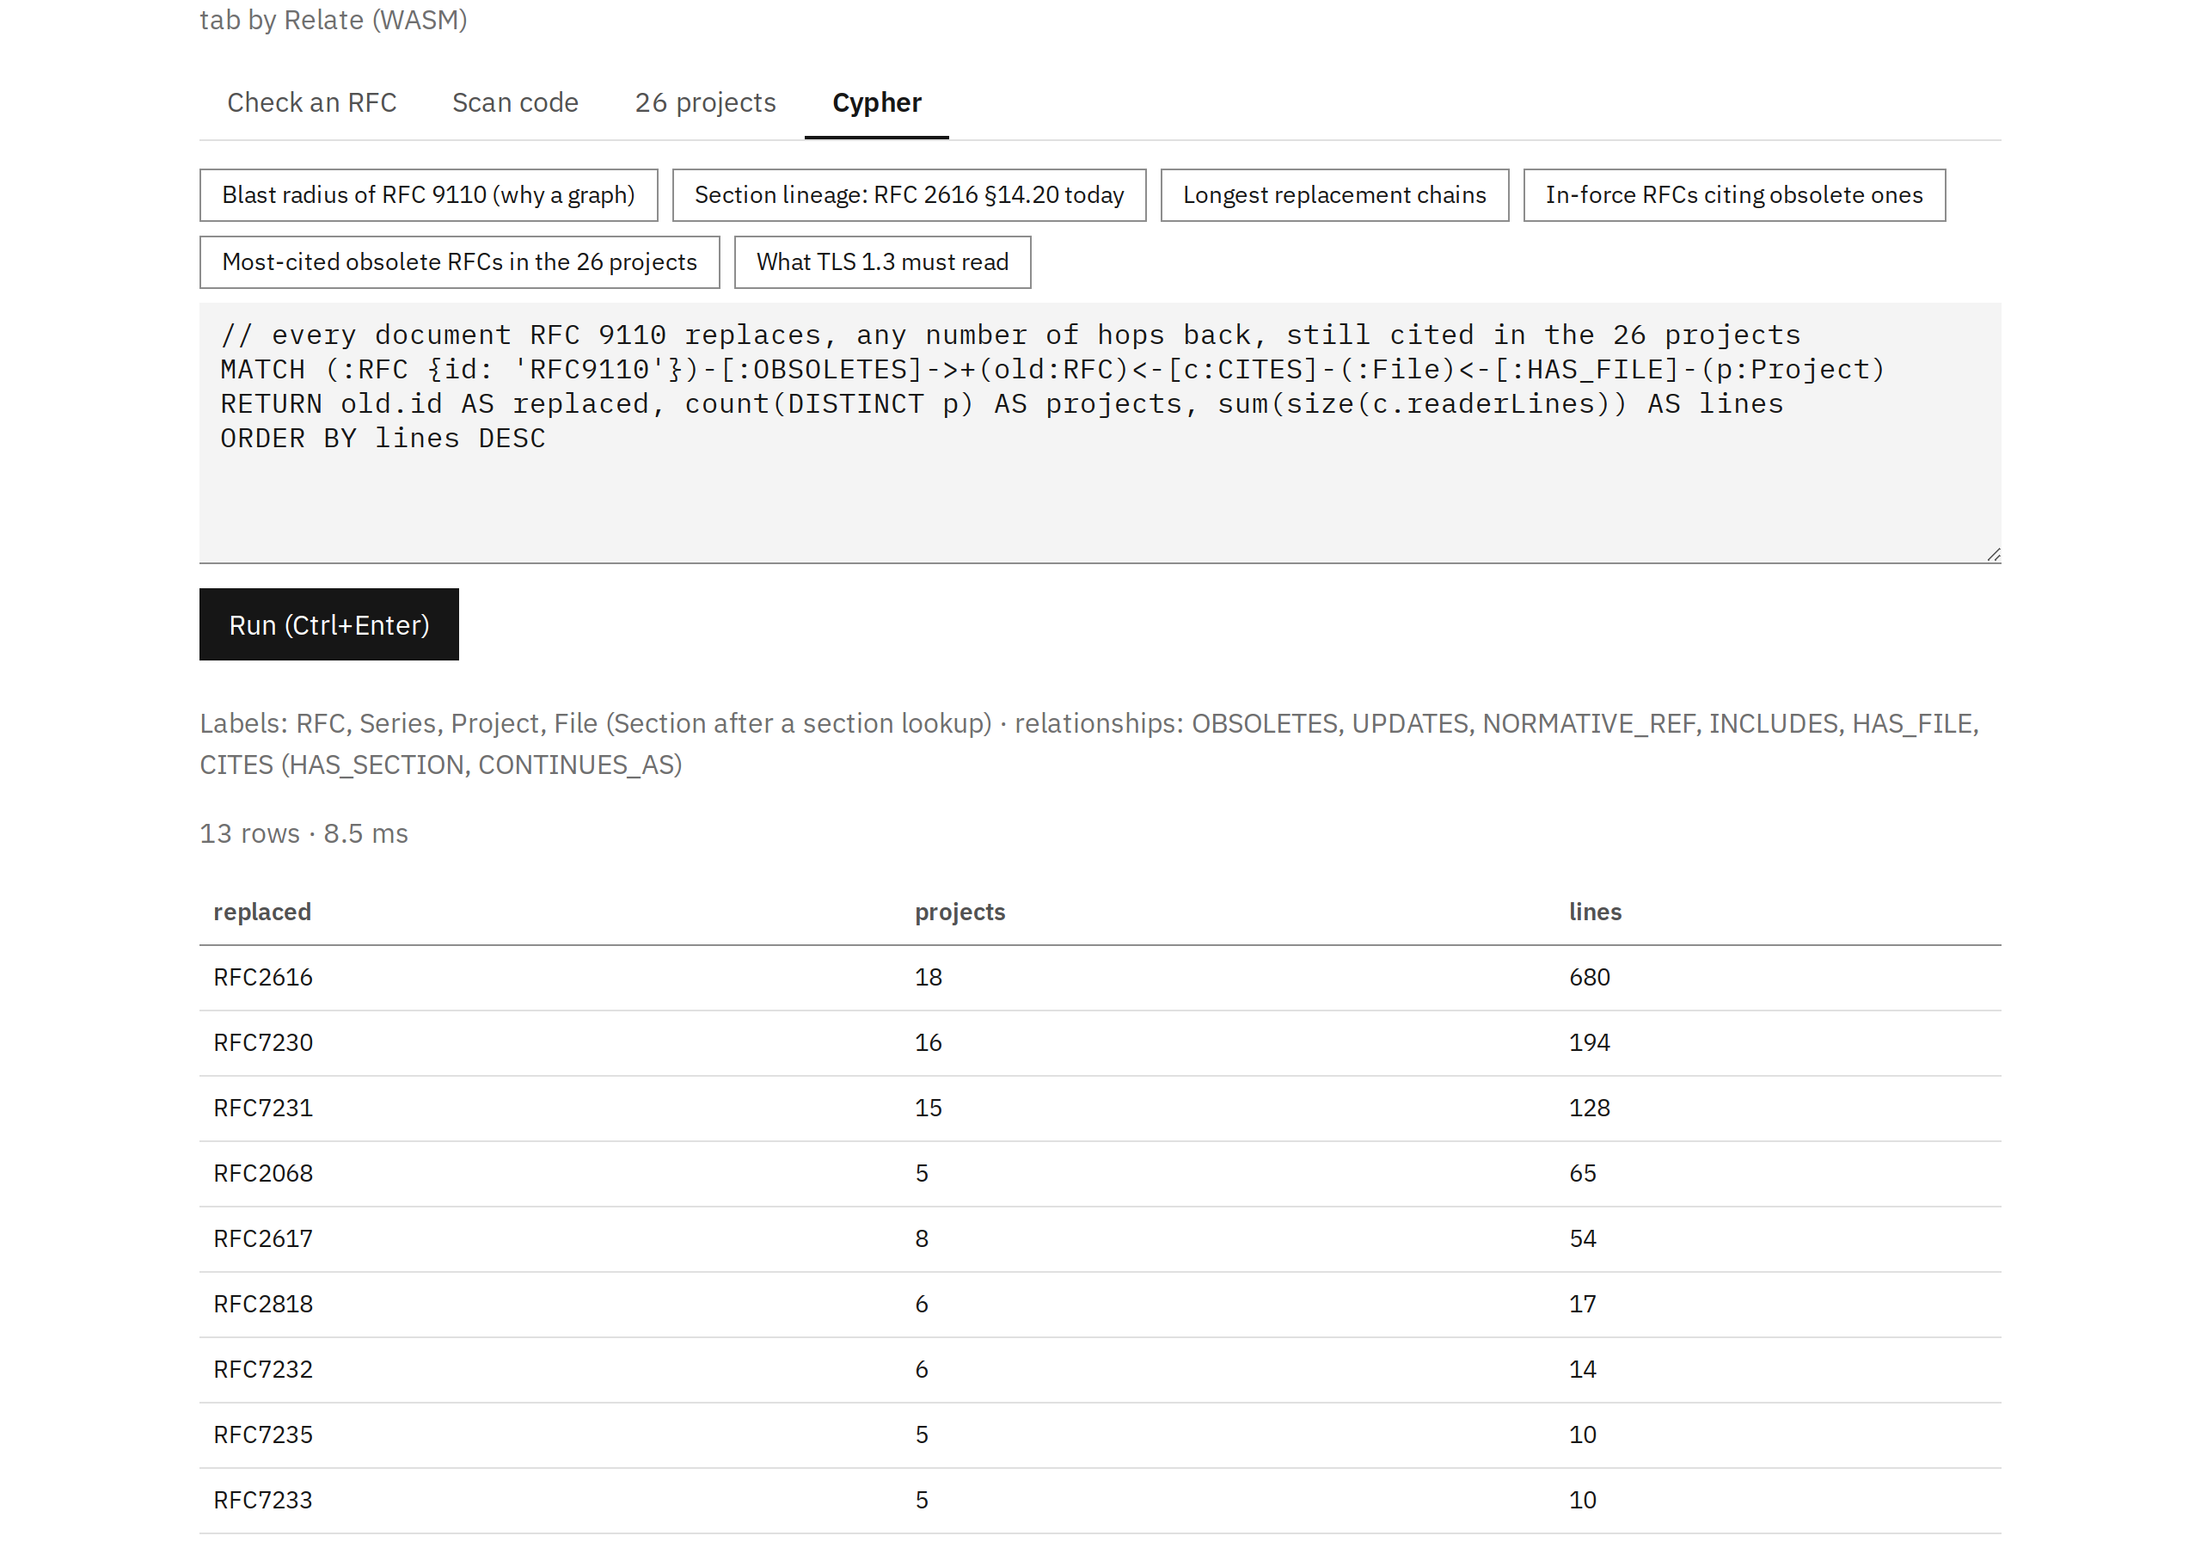
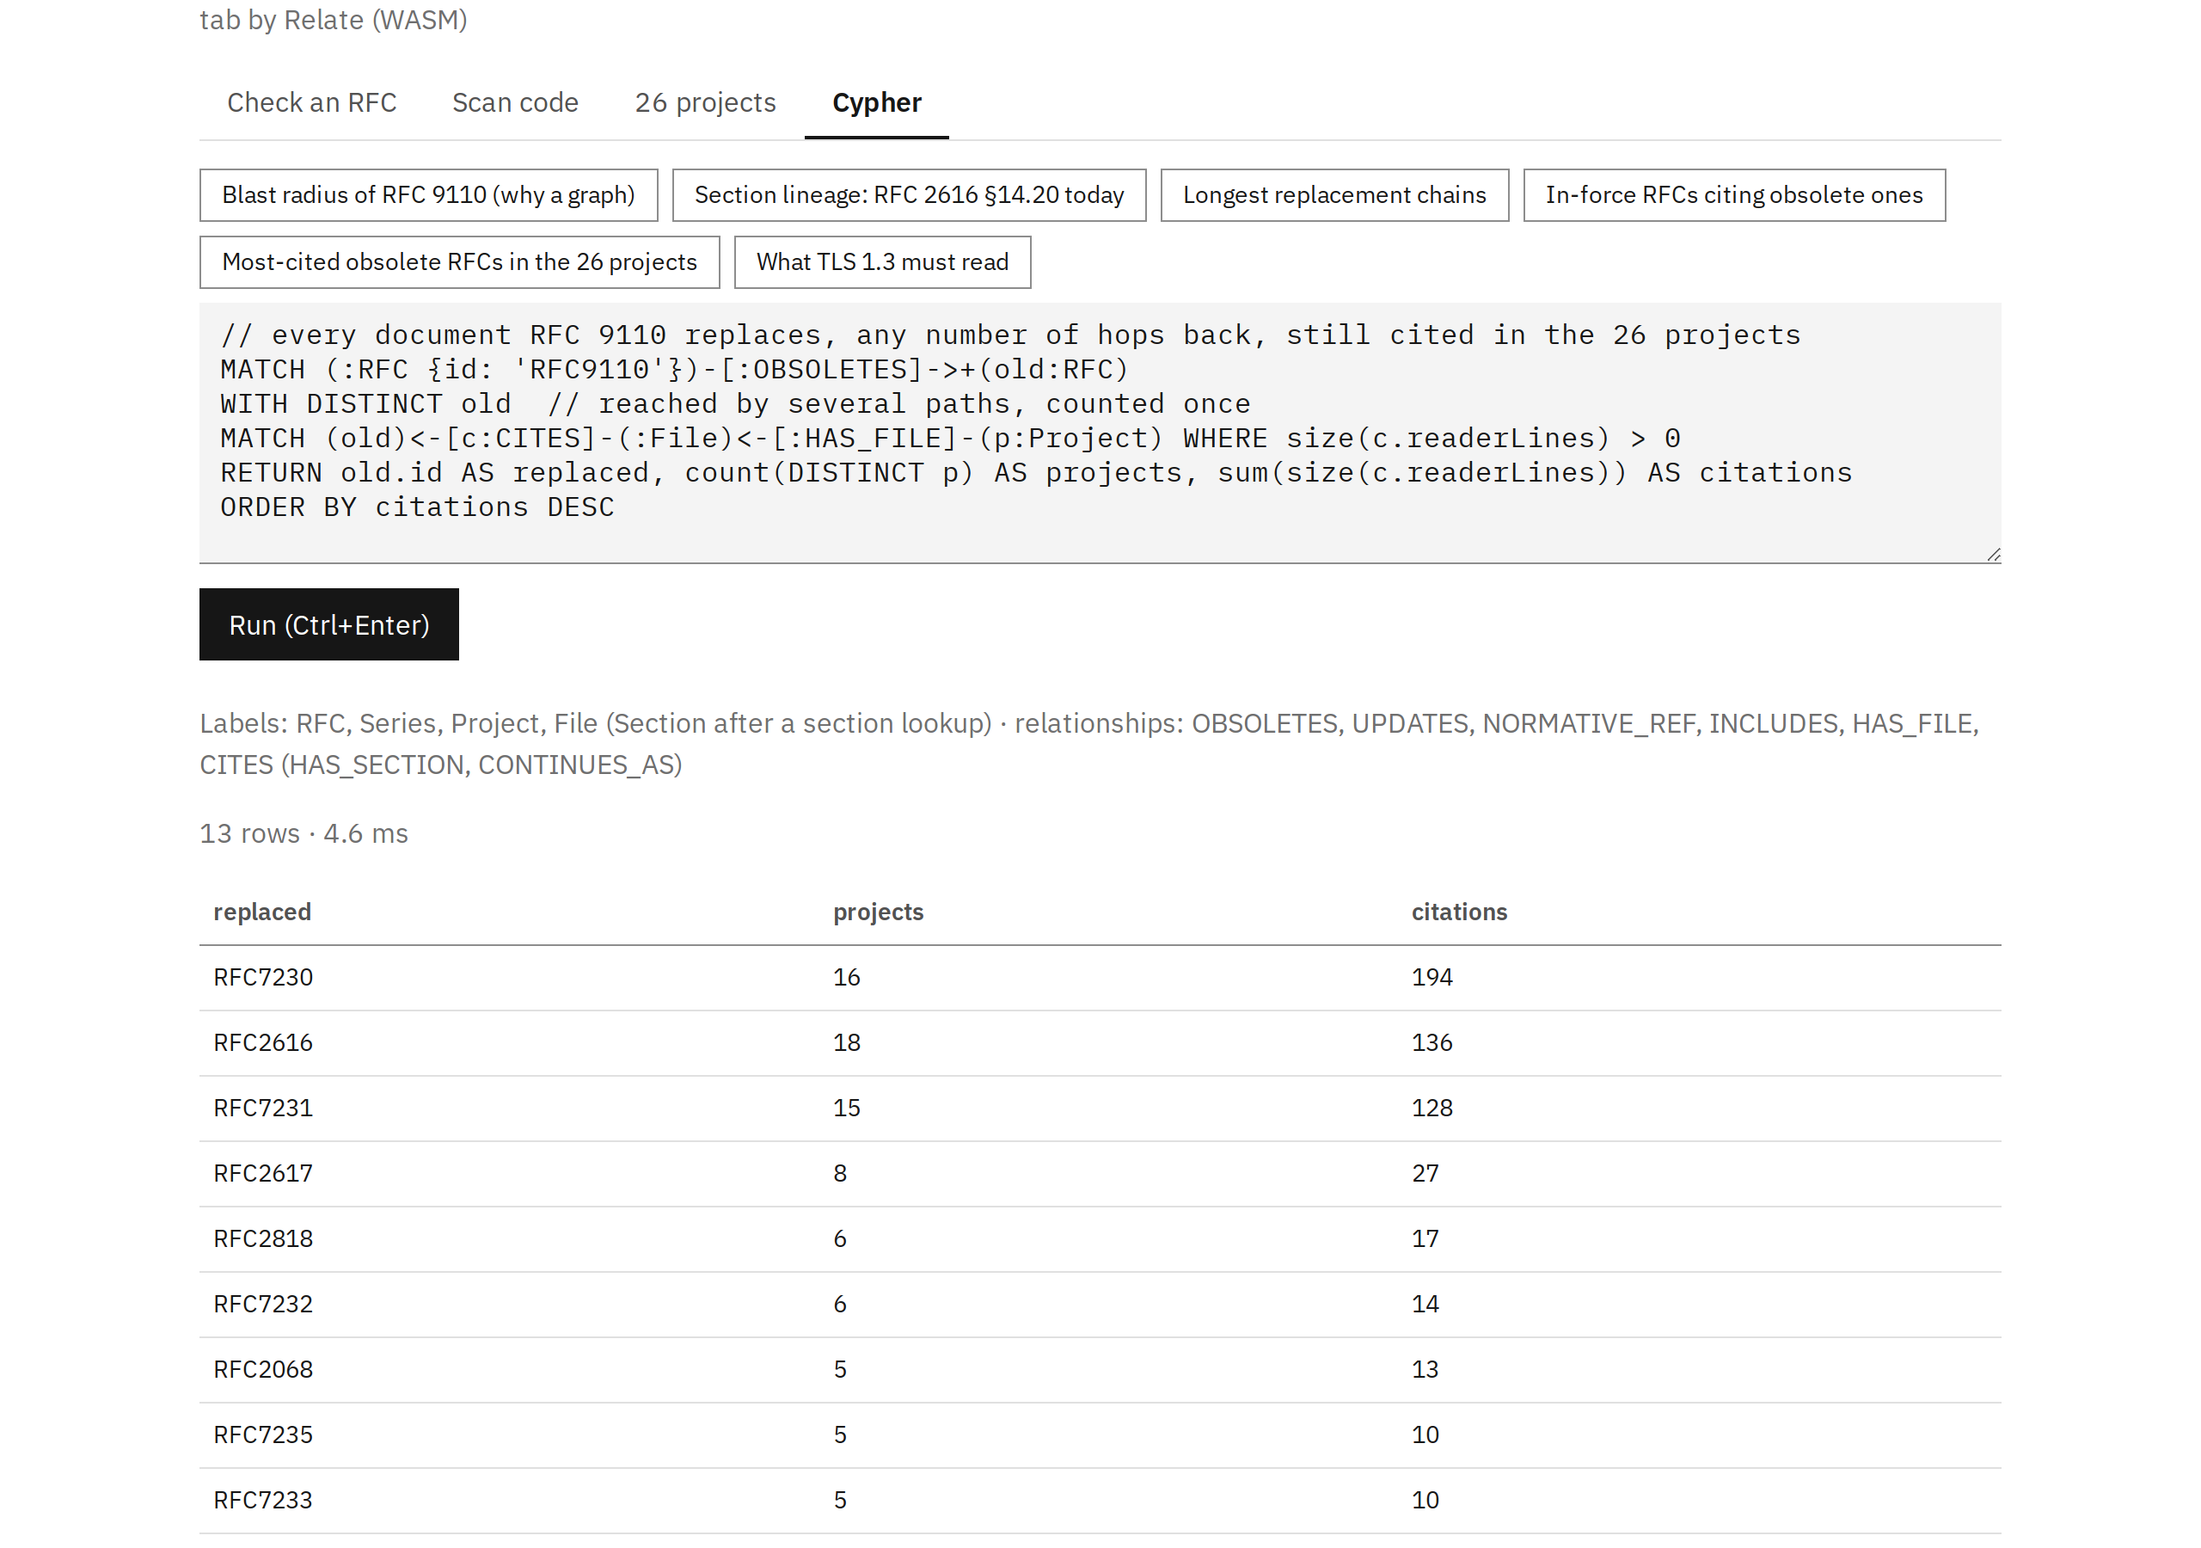
Blast radius counts each replaced RFC once (WITH DISTINCT old): RFC 9110 558 citations, not 1,183; lineage nodes carry the verdict level and glyph, layered on OBSOLETES only

diff --git a/docs/app.js b/docs/app.js
@@ -91,8 +91,8 @@ CALL (r) {
 UNWIND relationships(p) AS rel
 RETURN DISTINCT startNode(rel).id AS a, endNode(rel).id AS b, type(rel) AS type`,
   nodes: `UNWIND $ids AS id MATCH (r:RFC {id: id})
-RETURN r.id AS id, r.title AS title, r.date AS date, r.obsolete AS obsolete,
-       EXISTS { (r)<-[:UPDATES]-(u:RFC) WHERE NOT u.obsolete } AS amended`,
+RETURN r.id AS id, r.title AS title, r.date AS date, r.obsolete AS obsolete, r.oldVersion AS oldVersion,
+       r.status AS status, r.errata AS errata, COLLECT { MATCH (r)<-[:UPDATES]-(u:RFC) WHERE NOT u.obsolete RETURN u.id } AS updates`,
   projectsCiting: `MATCH (p:Project)-[:HAS_FILE]->(f:File)-[c:CITES]->(r:RFC {number: $n})
 RETURN p.name AS project, p.repo AS repo, p.url AS url, f.path AS path, c.lines AS lines ORDER BY project, path`,
   search: `MATCH (r:RFC) SEARCH r IN (FULLTEXT INDEX rfc_title FOR $q LIMIT 25) SCORE AS score
@@ -116,6 +116,7 @@ ORDER BY id, path`,
 };
 
 // same order as graph.py Verdict.level: a retired protocol version (TLS 1.0) is historic, not old-version
+const GLYPH = { obsolete: "✗", historic: "✗", "old-version": "↑", amended: "!", ok: "✓", unknown: "?" };
 const level = (r) => r === null ? "unknown" : r.obsolete && !r.oldVersion ? "obsolete" : r.status === "HISTORIC" ? "historic"
   : r.obsolete ? "old-version" : (r.updates?.length || r.errata) ? "amended" : "ok";
 const badge = (lvl) => `<span class="badge ${lvl}">${{ obsolete: "✗ obsolete", "old-version": "↑ old version", historic: "✗ historic", amended: "! amended", ok: "✓ current", unknown: "? unknown" }[lvl]}</span>`;
@@ -181,7 +182,7 @@ async function check(input) {
       : `<li class="dim">No section of the replacement has this heading, or there is no such section; see the change log.</li>`) + `</ul><div class="q" id="q-sec"></div>`;
   }
   html += `<div class="q" id="q-info"></div></div>`;
-  html += `<div class="card"><h3>Lineage</h3><p class="dim">OBSOLETES chains in both directions and live UPDATES. Click a node to open it.</p><div id="cy"></div><div class="legend"><span class="dot obsolete"></span>✗ obsolete <span class="dot amended"></span>in force, amended <span class="dot ok"></span>✓ in force <span class="line obs"></span>obsoletes <span class="line upd"></span>updates</div><div class="q" id="q-lineage"></div></div>`;
+  html += `<div class="card"><h3>Lineage</h3><p class="dim">OBSOLETES chains in both directions and UPDATES (one hop). Each node shows its verdict. Click a node to open it.</p><div id="cy"></div><div class="legend"><span class="dot obsolete"></span>✗ obsolete or historic <span class="dot old"></span>↑ old version <span class="dot amended"></span>! amended <span class="dot ok"></span>✓ current <span class="line obs"></span>obsoletes <span class="line upd"></span>updates</div><div class="q" id="q-lineage"></div></div>`;
   html += `<div class="card" id="citing"></div>`;
   out.innerHTML = html;
   showQuery($("#q-info"), infoQuery);
@@ -191,7 +192,7 @@ async function check(input) {
   if (my !== renderSeq) return;
   const by = {};
   for (const c of cites) (by[c.project] ||= []).push(c);
-  $("#citing").innerHTML = `<h3>Cited by ${Object.keys(by).length} of 26 scanned projects</h3>` + (cites.length ? `<ul>` + Object.entries(by).map(([p, cs]) =>
+  $("#citing").innerHTML = `<h3>Cited outside tests and identifiers by ${Object.keys(by).length} of 26 scanned projects</h3>` + (cites.length ? `<ul>` + Object.entries(by).map(([p, cs]) =>
     `<li><b>${esc(p)}</b> ${cs.slice(0, 4).map((c) => ghLink(c.url, c.path, c.lines[0])).join(", ")}${cs.length > 4 ? ` <span class="dim">+${cs.length - 4} files</span>` : ""}</li>`).join("") + `</ul>` : `<p class="dim">none</p>`);
 }
 
@@ -213,23 +214,27 @@ async function drawLineage(n, rootId, my) {
   el.style.height = Math.min(560, 160 + ids.length * 18) + "px";
   const css = getComputedStyle(document.documentElement);
   const color = (v) => css.getPropertyValue(v).trim();
-  cytoscape({
+  const cy = cytoscape({
     container: el,
     elements: [
-      ...nodes.map((x) => ({ data: { id: x.id, label: `${x.obsolete ? "✗ " : ""}${x.id}\n${x.date.slice(0, 4)}`, title: x.title, cls: x.obsolete ? "obsolete" : x.amended ? "amended" : "ok", root: x.id === rootId } })),
+      ...nodes.map((x) => ({ data: { id: x.id, label: `${GLYPH[level(x)]} ${x.id}\n${x.date.slice(0, 4)}`, title: x.title, cls: level(x), root: x.id === rootId } })),
       ...edges.map((r, i) => ({ data: { id: "e" + i, source: r.a, target: r.b, type: r.type } })),
     ],
-    layout: { name: "breadthfirst", directed: true, spacingFactor: 1.1, padding: 12 },
+    layout: { name: "preset" },
     style: [
       { selector: "node", style: { label: "data(label)", "text-wrap": "wrap", "text-valign": "center", "font-size": 12, "font-family": "Plex Mono, monospace", color: color("--fg"), width: 84, height: 40, shape: "rectangle", "background-color": color("--bg"), "border-width": 1, "border-color": color("--fg") } },
-      { selector: "node[cls = 'obsolete']", style: { "border-width": 2, "border-style": "dashed", "border-color": color("--bad"), color: color("--bad") } },
+      { selector: "node[cls = 'obsolete'], node[cls = 'historic']", style: { "border-width": 2, "border-style": "dashed", "border-color": color("--bad"), color: color("--bad") } },
       { selector: "node[cls = 'amended']", style: { "border-color": color("--warn") } },
+      { selector: "node[cls = 'old-version']", style: { "border-color": color("--fg2"), color: color("--fg2") } },
       { selector: "node[cls = 'ok']", style: { "border-color": color("--ok") } },
       { selector: "node[?root]", style: { "border-width": 3 } },
       { selector: "edge", style: { width: 2, "curve-style": "bezier", "target-arrow-shape": "triangle", "line-color": color("--accent"), "target-arrow-color": color("--accent") } },
       { selector: "edge[type = 'UPDATES']", style: { width: 1, "line-style": "dashed", "line-color": color("--line-strong"), "target-arrow-color": color("--line-strong") } },
     ],
-  }).on("tap", "node", (e) => check(e.target.id().replace("RFC", "")))
+  });
+  // layers from OBSOLETES only (UPDATES would pull an old RFC up beside the RFCs that replaced it)
+  cy.elements().not("edge[type = 'UPDATES']").layout({ name: "breadthfirst", directed: true, spacingFactor: 1.1, padding: 12 }).run();
+  cy.on("tap", "node", (e) => check(e.target.id().replace("RFC", "")))
     .on("mouseover", "node", (e) => { el.title = e.target.data("title"); });
 }
 
@@ -328,9 +333,11 @@ async function project(name, meta) {
 // ---------- cypher tab ----------
 const EXAMPLES = {
   "Blast radius of RFC 9110 (why a graph)": `// every document RFC 9110 replaces, any number of hops back, still cited in the 26 projects
-MATCH (:RFC {id: 'RFC9110'})-[:OBSOLETES]->+(old:RFC)<-[c:CITES]-(:File)<-[:HAS_FILE]-(p:Project)
-RETURN old.id AS replaced, count(DISTINCT p) AS projects, sum(size(c.readerLines)) AS lines
-ORDER BY lines DESC`,
+MATCH (:RFC {id: 'RFC9110'})-[:OBSOLETES]->+(old:RFC)
+WITH DISTINCT old  // reached by several paths, counted once
+MATCH (old)<-[c:CITES]-(:File)<-[:HAS_FILE]-(p:Project) WHERE size(c.readerLines) > 0
+RETURN old.id AS replaced, count(DISTINCT p) AS projects, sum(size(c.readerLines)) AS citations
+ORDER BY citations DESC`,
   "Section lineage: RFC 2616 §14.20 today": `MATCH p = (:Section {id: 'RFC2616#14.20'})-[:CONTINUES_AS]->+(t:Section)
 RETURN [x IN nodes(p) | x.id + ' ' + x.title] AS lineage`,
   "Longest replacement chains": `MATCH p = (old:RFC)<-[:OBSOLETES]-+(new:RFC)

diff --git a/docs/style.css b/docs/style.css
@@ -58,10 +58,10 @@ b.ok a { color: var(--ok); }
 .badge.amended { color: var(--warn); }
 .badge.ok { color: var(--ok); }
 .badge.unknown { color: var(--muted); }
-#cy { width: 100%; height: 360px; background: var(--bg); border: 1px solid var(--line); }
+#cy { width: 100%; min-width: 720px; height: 360px; background: var(--bg); border: 1px solid var(--line); }
 .legend { font-size: 14px; color: var(--fg2); margin-top: 8px; display: flex; gap: 16px; flex-wrap: wrap; align-items: center; }
 .dot { display: inline-block; width: 12px; height: 12px; margin-right: -8px; border: 1px solid var(--fg); background: var(--bg); }
-.dot.obsolete { border: 2px dashed var(--bad); } .dot.amended { border-color: var(--warn); } .dot.ok { border-color: var(--ok); }
+.dot.obsolete { border: 2px dashed var(--bad); } .dot.old { border-color: var(--fg2); } .dot.amended { border-color: var(--warn); } .dot.ok { border-color: var(--ok); }
 .line { display: inline-block; width: 24px; border-top: 2px solid var(--accent); margin-right: -8px; }
 .line.upd { border-top: 1px dashed var(--line-strong); }
 table { border-collapse: collapse; width: 100%; font-size: 14px; }

diff --git a/scripts/facts.py b/scripts/facts.py
@@ -31,11 +31,12 @@ def main():
     homes = [graph.section_now(c, x["rfc"], x["s"]) for x in cited]
     sections = {"cited": len(cited), "mapped": sum(bool(h) for h in homes),
                 "exact": sum(any(y["exact"] for y in h) for h in homes)}
-    # blast radius of a new RFC: everything it replaces, any number of hops back, still cited in the projects
-    blast = {rid: one(f"""MATCH (:RFC {{id: '{rid}'}})-[:OBSOLETES]->+(old:RFC)<-[c:CITES]-(:File)<-[:HAS_FILE]-(p:Project)
-                           WHERE size(c.readerLines) > 0
+    # blast radius of a new RFC: everything it replaces, any number of hops back, still cited in the projects.
+    # WITH DISTINCT old: an RFC reached by several OBSOLETES paths must count its citations once.
+    blast = {rid: one(f"""MATCH (:RFC {{id: '{rid}'}})-[:OBSOLETES]->+(old:RFC) WITH DISTINCT old
+                           MATCH (old)<-[c:CITES]-(:File)<-[:HAS_FILE]-(p:Project) WHERE size(c.readerLines) > 0
                            RETURN count(DISTINCT old) AS replaced, count(DISTINCT p) AS projects,
-                                  sum(size(c.readerLines)) AS lines""") for rid in ("RFC9110", "RFC9846")}
+                                  sum(size(c.readerLines)) AS citations""") for rid in ("RFC9110", "RFC9846")}
     facts = {"blast_radius": blast, "sections": sections, "nodes": labels, "relationships": rels, "showcase": show, "top_obsolete": top, "rfc8446_cited": tls,
              "store_bytes": graph.DEFAULT_STORE.stat().st_size}
     OUT.write_text(json.dumps(facts, indent=2) + "\n")

diff --git a/tests/test_facts.py b/tests/test_facts.py
@@ -20,8 +20,8 @@ def test_readme_matches_facts():
                    f"{f['sections']['mapped']} have a home", f"({f['sections']['exact']} by identical heading"]:
         assert needle in readme, needle
     b = f["blast_radius"]["RFC9110"]
-    assert f"**{b['lines']:,}** lines in **{b['projects']}** of the 26" in readme and f"replaces {b['replaced']} documents" in readme
+    assert f"**{b['citations']:,}** times in **{b['projects']}** of the 26" in readme and f"replaces {b['replaced']} documents" in readme
     b = f["blast_radius"]["RFC9846"]
-    assert f"gives {b['lines']:,} lines in {b['projects']} projects" in readme
+    assert f"gives {b['citations']:,} citations in {b['projects']} projects" in readme
     t = f["top_obsolete"]
     assert f"RFC 2616 ({t[0]['projects']} projects)" in readme and t[0]["rfc"] == "RFC2616"

diff --git a/specrot/mcp_server.py b/specrot/mcp_server.py
@@ -123,7 +123,7 @@ def save_scan(path: str, project: str) -> dict:
     return {"project": project, "files": len({c.path for c in cites}), "citations": len(cites),
             "reader_facing": reader, "not_in_graph": sum(1 for c in cites if c.rfc not in known),
             "skipped_large_files": too_big, "store": "session copy",
-            "try": "MATCH (:RFC {id:'RFC9110'})-[:OBSOLETES]->+(old:RFC)<-[c:CITES]-(f:File)<-[:HAS_FILE]-"
+            "try": "MATCH (:RFC {id:'RFC9110'})-[:OBSOLETES]->+(old:RFC) WITH DISTINCT old MATCH (old)<-[c:CITES]-(f:File)<-[:HAS_FILE]-"
                    f"(:Project {{name:'{project}'}}) RETURN old.id, f.path, c.readerLines"}
 
 

diff --git a/README.md b/README.md
@@ -59,17 +59,20 @@ and coding agents, whose training data predates recent replacements.
 Every answer specrot gives is a walk of unknown length across several kinds of node, which a lookup table
 cannot hold and SQL needs a recursive CTE plus a join per hop for:
 
-[![The blast-radius query running in the browser's Cypher tab, 13 replaced documents with projects and lines](docs/img/blast-radius.png)](https://shiran-yu.github.io/specrot/#cypher)
+[![The blast-radius query running in the browser's Cypher tab, 13 replaced documents with projects and citations](docs/img/blast-radius.png)](https://shiran-yu.github.io/specrot/#cypher)
 
 ```cypher
 // Blast radius of a new RFC: every document it replaces, any number of hops back, still cited in the projects
-MATCH (:RFC {id: 'RFC9110'})-[:OBSOLETES]->+(old:RFC)<-[c:CITES]-(:File)<-[:HAS_FILE]-(p:Project)
-RETURN count(DISTINCT old) AS replaced, count(DISTINCT p) AS projects, sum(size(c.readerLines)) AS lines
+MATCH (:RFC {id: 'RFC9110'})-[:OBSOLETES]->+(old:RFC)
+WITH DISTINCT old  // an RFC reached by several OBSOLETES paths counts once
+MATCH (old)<-[c:CITES]-(:File)<-[:HAS_FILE]-(p:Project) WHERE size(c.readerLines) > 0
+RETURN count(DISTINCT old) AS replaced, count(DISTINCT p) AS projects, sum(size(c.readerLines)) AS citations
 ```
 
 RFC 9110 (HTTP Semantics, 2022) replaces 13 documents through chains such as 2616 → 7231 → 9110; they are
-still cited on **1,183** lines in **20** of the 26 projects. The same query for TLS 1.3's new RFC 9846 (July
-2026) gives 518 lines in 8 projects, older TLS versions included. One edge type answers "what replaced it",
+still cited **558** times in **20** of the 26 projects (reader-facing citations: tests and identifiers left
+out). The same query for TLS 1.3's new RFC 9846 (July 2026) gives 358 citations in 8 projects, older TLS
+versions included. One edge type answers "what replaced it",
 another "which section", a third "who cites it", and the question chains them:
 
 ```cypher
